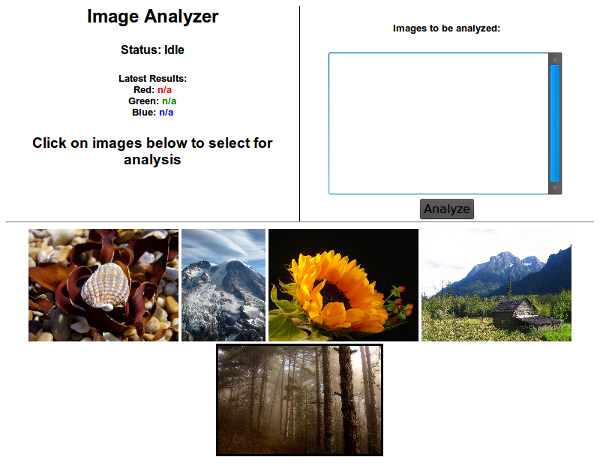
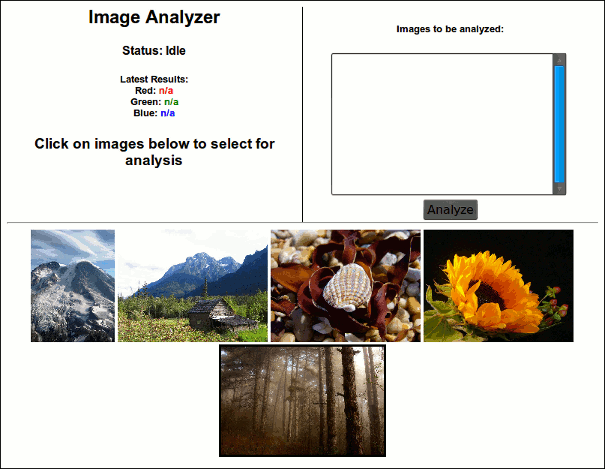
Resized image, added missing files, and reformatted documentation of QtWebKit Image Analyzer example.

diff --git a/examples/webkit/imageanalyzer/resources/index.html b/examples/webkit/imageanalyzer/resources/index.html
@@ -1,0 +1,133 @@
+
+<html>
+    <body>
+    <!-- [ images list ] -->
+        <div style="float:right; width:50%; border-left: solid 1px black">
+            <div id="listdiv" align="center">
+                <h5>Images to be analyzed:</h5>
+                <select multiple size=10 id=imglist style="width:80%"></select>
+                <br />
+                <input type="button" id="evalbutton" value="Analyze" onclick="analyzeImages()" />
+            </div>
+        </div>
+    <!-- [ images list ] -->
+        <div style="width:50%">
+            <div id="titleblock" align="center">
+                <h2>Image Analyzer</h2>
+            </div>
+            <div id=outputdiv align=center>
+                <h4>Status: <span id=status>Idle</span></h4>
+                <h5>
+                    Latest Results:<br />
+                    Red: <span id=redval style="color:red">n/a</span><br />
+                    Green: <span id=greenval style="color:green">n/a</span><br />
+                    Blue: <span id=blueval style="color:blue">n/a</span><br />
+                </h5>
+                <h3>Click on images below to select for analysis</h3>
+            </div>
+        </div>
+        <!-- [ sample images ] -->
+        <div id=imagediv style="clear:both; text-align:center">
+        <hr/>
+            <img src="images/mtRainier.jpg" height=150px onclick='return addImage(this);' />
+            <img src="images/bellaCoola.jpg" height=150px onclick='return addImage(this);'/>
+            <img src="images/seaShell.jpg" height=150px onclick='return addImage(this);'/>
+        <!-- [ sample images ] -->
+            <img src="images/flower.jpg" height=150px onclick='return addImage(this);'/>
+            <img src="images/trees.jpg" height=150px onclick='return addImage(this);'/>
+        </div>
+
+    </body>
+</html>
+
+<script type="text/javascript">
+    var remaining = 0;
+    var connected = false;
+    //We use this function because connect statements resolve their target once, imediately
+    //not at signal emission so they must be connected once the imageAnalyzer object has been added to the frame
+    //! <!--  [ connect slots ] -->
+    function connectSlots()
+    {
+        if ( !connected ) {
+            connected = true;
+            imageAnalyzer.finishedAnalysis.connect(this, finished);
+            imageAnalyzer.updateProgress.connect(this, updateProg);
+        }
+    }
+    //! <!--  [ connect slots ] -->
+
+    function finished() {
+        setStatus('Idle');
+        setResults(imageAnalyzer.red.toFixed(2), imageAnalyzer.green.toFixed(2), imageAnalyzer.blue.toFixed(2));
+    }
+    //This will function as the recieving "slot" for the progress signal
+    function updateProg(complete, max)
+    {
+        var oldRemaining = remaining;
+        remaining = max - complete;
+        pullList(oldRemaining - remaining);
+        //Prevent results getting messed up if we don't get signals in order
+        if( imageAnalyzer.busy ) {
+            setStatus('Processing (' + complete + ' of ' + max + ' completed)');
+            setResults('Calculating','Calculating','Calculating');
+        }
+    }
+
+//! <!--  [ analyzeImages ] -->
+function analyzeImages() {
+    connectSlots();
+    var imglist = document.getElementsByTagName('option');
+    if (imglist.length > 0) {
+        stringlist = [];
+        for(var i=0; i<imglist.length; i++) {
+            stringlist[i]=imglist[i].value;
+        }
+        if (!imageAnalyzer.busy) {
+            remaining = stringlist.length;
+            imageAnalyzer.startAnalysis(stringlist);
+        } else {
+            alert("Processing, please wait until finished.");
+        }
+//! <!--  [ analyzeImages ] -->
+    } else {
+        alert('No images selected. Click on one or more images to select them for analysis.');
+    }
+}
+function clearList() {
+    var imglist = document.getElementById('imglist');
+    while(imglist.length > 0) {
+        imglist.removeChild(imglist.childNodes[0]);
+    }
+}
+function pullList(count) {
+    var imglist = document.getElementById('imglist');
+    while(imglist.length > 0 && count > 0) {
+        imglist.removeChild(imglist.childNodes[0]);
+        count--;
+    }
+}
+function setStatus(statusString) {
+    document.getElementById('status').innerHTML = statusString;
+}
+
+function setResults(red, green, blue) {
+    if (! isNaN(red) ) { red += " %"; }
+    if (! isNaN(green) ) { green += " %"; }
+    if (! isNaN(blue) ) { blue += " %"; }
+    document.getElementById('redval').innerHTML = red;
+    document.getElementById('greenval').innerHTML = green;
+    document.getElementById('blueval').innerHTML = blue;
+}
+//! <!--  [ addImage ] -->
+function addImage(newimg) {
+    var imglist = document.getElementById('imglist');
+    var curChildren = imglist.childNodes;
+    var newline = document.createElement('option');
+    newline.innerHTML = newimg.src.substring(newimg.src.lastIndexOf('/')+1);
+    newline.value = newimg.src;
+    imglist.appendChild(newline);
+}
+//! <!--  [ addImage ] -->
+</script>
+
+

diff --git a/examples/webkit/imageanalyzer/imageanalyzer.h b/examples/webkit/imageanalyzer/imageanalyzer.h
@@ -47,48 +47,53 @@
 class QNetworkAccessManager;
 class QNetworkReply;
 class QNetworkDiskCache;
+
 //! [ ImageAnalyzer - public interface ]
 class ImageAnalyzer : public QObject
 {
     Q_OBJECT
-    public:
-        ImageAnalyzer(QNetworkDiskCache * netcache, QObject * parent=0);
+public:
+    ImageAnalyzer(QNetworkDiskCache * netcache, QObject * parent=0);
 
-        QRgb lastResults();
-        float lastRed();
-        float lastGreen();
-        float lastBlue();
-        bool isBusy();
-        Q_PROPERTY(bool busy READ isBusy);
-        Q_PROPERTY(float red READ lastRed);
-        Q_PROPERTY(float green READ lastGreen);
-        Q_PROPERTY(float blue READ lastBlue);
-        ~ImageAnalyzer();
-    public slots:
-        /*! initiates analysis of all the urls in the list */
-        void startAnalysis(const QStringList & urls);
-   signals:
-      void finishedAnalysis();
-      void updateProgress(int completed, int total);
-//! [ ImageAnalyzer - public interface ]
-    private slots:
-        void handleReply(QNetworkReply*);
-        void doneProcessing();
-        void progressStatus(int);
-private:
-        QRgb processImages();
-        void fetchURLs();
-        void queueImage(QImage img);
+    QRgb lastResults();
+    float lastRed();
+    float lastGreen();
+    float lastBlue();
+    bool isBusy();
+    Q_PROPERTY(bool busy READ isBusy);
+    Q_PROPERTY(float red READ lastRed);
+    Q_PROPERTY(float green READ lastGreen);
+    Q_PROPERTY(float blue READ lastBlue);
+    ~ImageAnalyzer();
 
-//! [ ImageAnalyzer - private members ]
+public slots:
+    /*! initiates analysis of all the urls in the list */
+    void startAnalysis(const QStringList & urls);
+
+signals:
+    void finishedAnalysis();
+    void updateProgress(int completed, int total);
+    //! [ ImageAnalyzer - public interface ]
+
+private slots:
+    void handleReply(QNetworkReply*);
+    void doneProcessing();
+    void progressStatus(int);
+
 private:
-        QNetworkAccessManager* m_network;
-        QNetworkDiskCache* m_cache;
-        QStringList m_URLQueue;
-        QList<QImage> m_imageQueue;
-        int m_outstandingFetches;
-        QFutureWatcher<QRgb> * m_watcher;
-//! [ ImageAnalyzer - private members ]
+    QRgb processImages();
+    void fetchURLs();
+    void queueImage(QImage img);
+
+    //! [ ImageAnalyzer - private members ]
+private:
+    QNetworkAccessManager* m_network;
+    QNetworkDiskCache* m_cache;
+    QStringList m_URLQueue;
+    QList<QImage> m_imageQueue;
+    int m_outstandingFetches;
+    QFutureWatcher<QRgb> * m_watcher;
+    //! [ ImageAnalyzer - private members ]
 };
 
 QRgb averageRGB(const QImage &img);

diff --git a/examples/webkit/imageanalyzer/imageanalyzer.cpp b/examples/webkit/imageanalyzer/imageanalyzer.cpp
@@ -57,7 +57,7 @@
 
 //! [ ImageAnalyzer - Constructor ]
 ImageAnalyzer::ImageAnalyzer(QNetworkDiskCache* netcache, QObject* parent)
-: QObject(parent), m_cache(netcache), m_outstandingFetches(0)
+    : QObject(parent), m_cache(netcache), m_outstandingFetches(0)
 {
     /*  ImageAnalyzer only wants to receive http responses
         for requests that it makes, so that's why it has its own
@@ -69,11 +69,11 @@ ImageAnalyzer::ImageAnalyzer(QNetworkDiskCache* netcache, QObject* parent)
     m_network->setCache(m_cache);
 
     QObject::connect(m_network, SIGNAL(finished(QNetworkReply*)),
-            this, SLOT(handleReply(QNetworkReply*)));
+                     this, SLOT(handleReply(QNetworkReply*)));
     QObject::connect(m_watcher, SIGNAL(finished()),
-            this, SLOT(doneProcessing()));
+                     this, SLOT(doneProcessing()));
     QObject::connect(m_watcher, SIGNAL(progressValueChanged(int)),
-            this, SLOT(progressStatus(int)));
+                     this, SLOT(progressStatus(int)));
 }
 //! [ ImageAnalyzer - Constructor ]
 ImageAnalyzer::~ImageAnalyzer()

diff --git a/examples/webkit/imageanalyzer/mainwindow.h b/examples/webkit/imageanalyzer/mainwindow.h
@@ -41,8 +41,8 @@
 
 #ifndef MAINWINDOW_H
 #define MAINWINDOW_H
-#include <QWebView>
 
+#include <QWebView>
 
 class ImageAnalyzer;
 class QNetworkDiskCache;
@@ -50,14 +50,17 @@ class QNetworkDiskCache;
 class MainWin : public QWebView
 {
     Q_OBJECT
+    
+public:
+    explicit MainWin(QWidget * parent = 0);
 
-    public:
-        explicit MainWin(QWidget * parent = 0);
-    private:
-        ImageAnalyzer * m_analyzer;
-        QNetworkAccessManager * m_network;
-        QNetworkDiskCache * m_cache;
-    private slots:
-        void addJSObject();
+private:
+    ImageAnalyzer * m_analyzer;
+    QNetworkAccessManager * m_network;
+    QNetworkDiskCache * m_cache;
+
+private slots:
+    void addJSObject();
+
 };
 #endif
